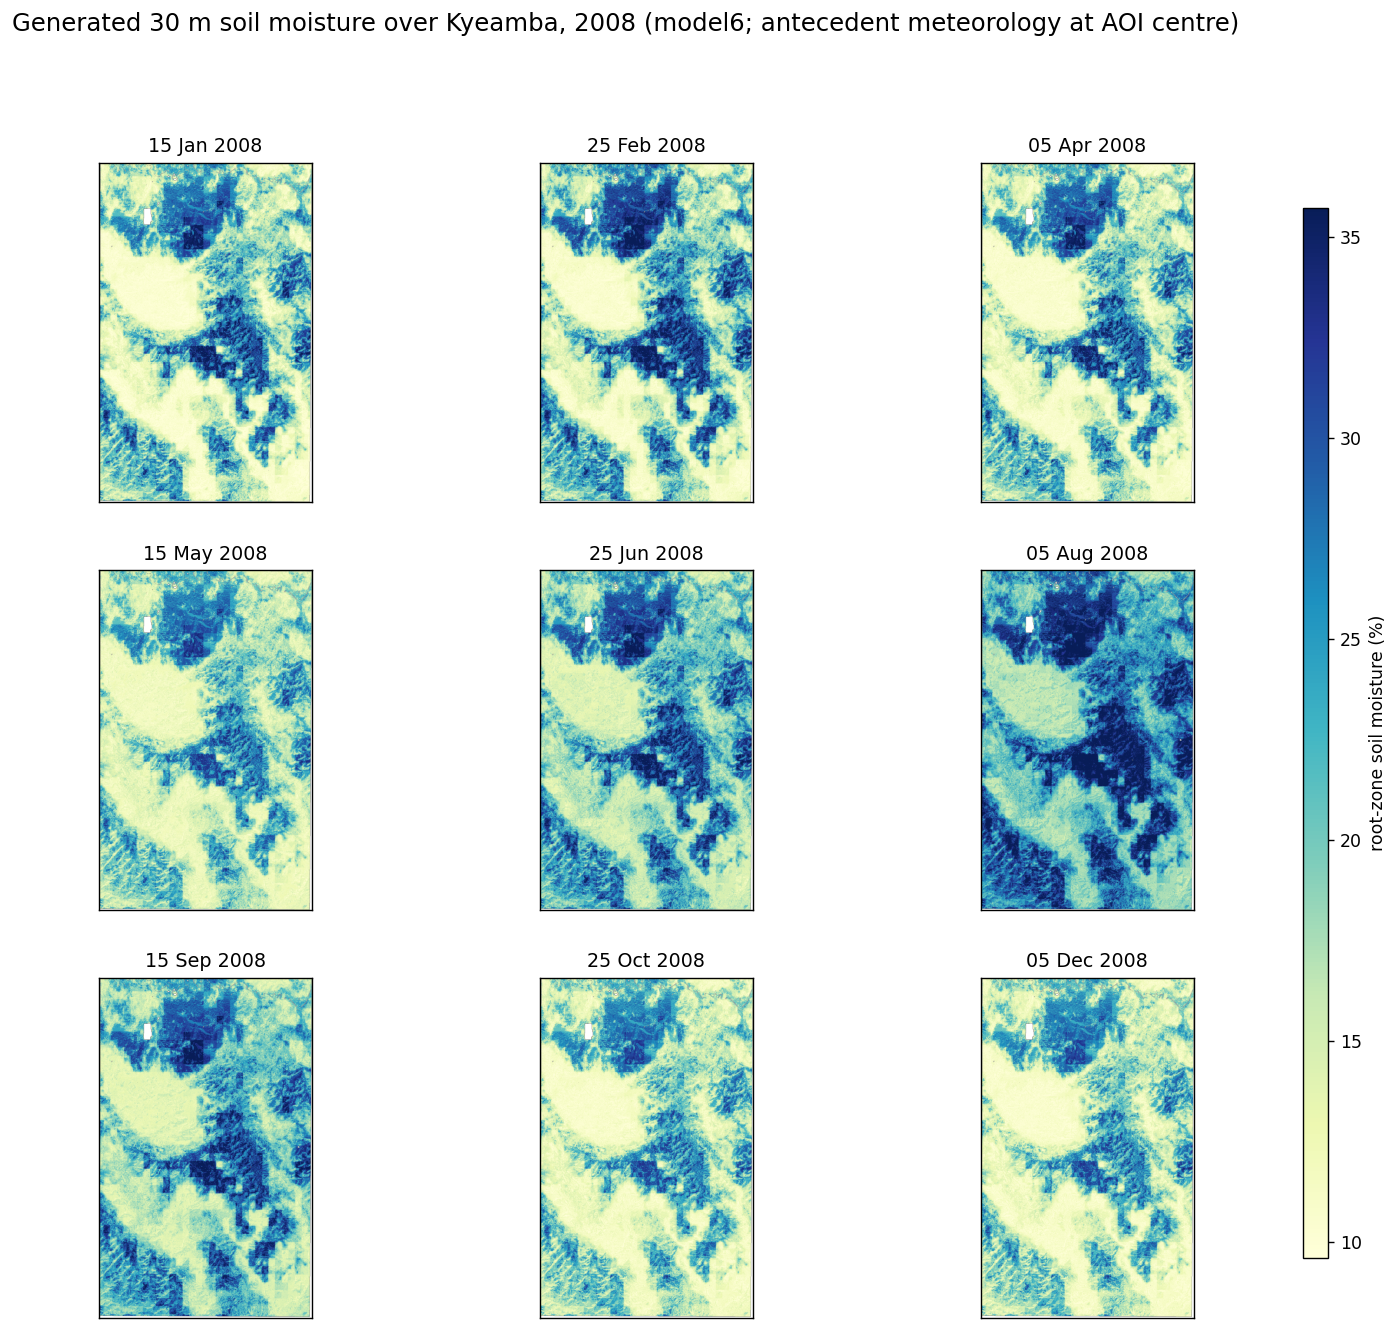
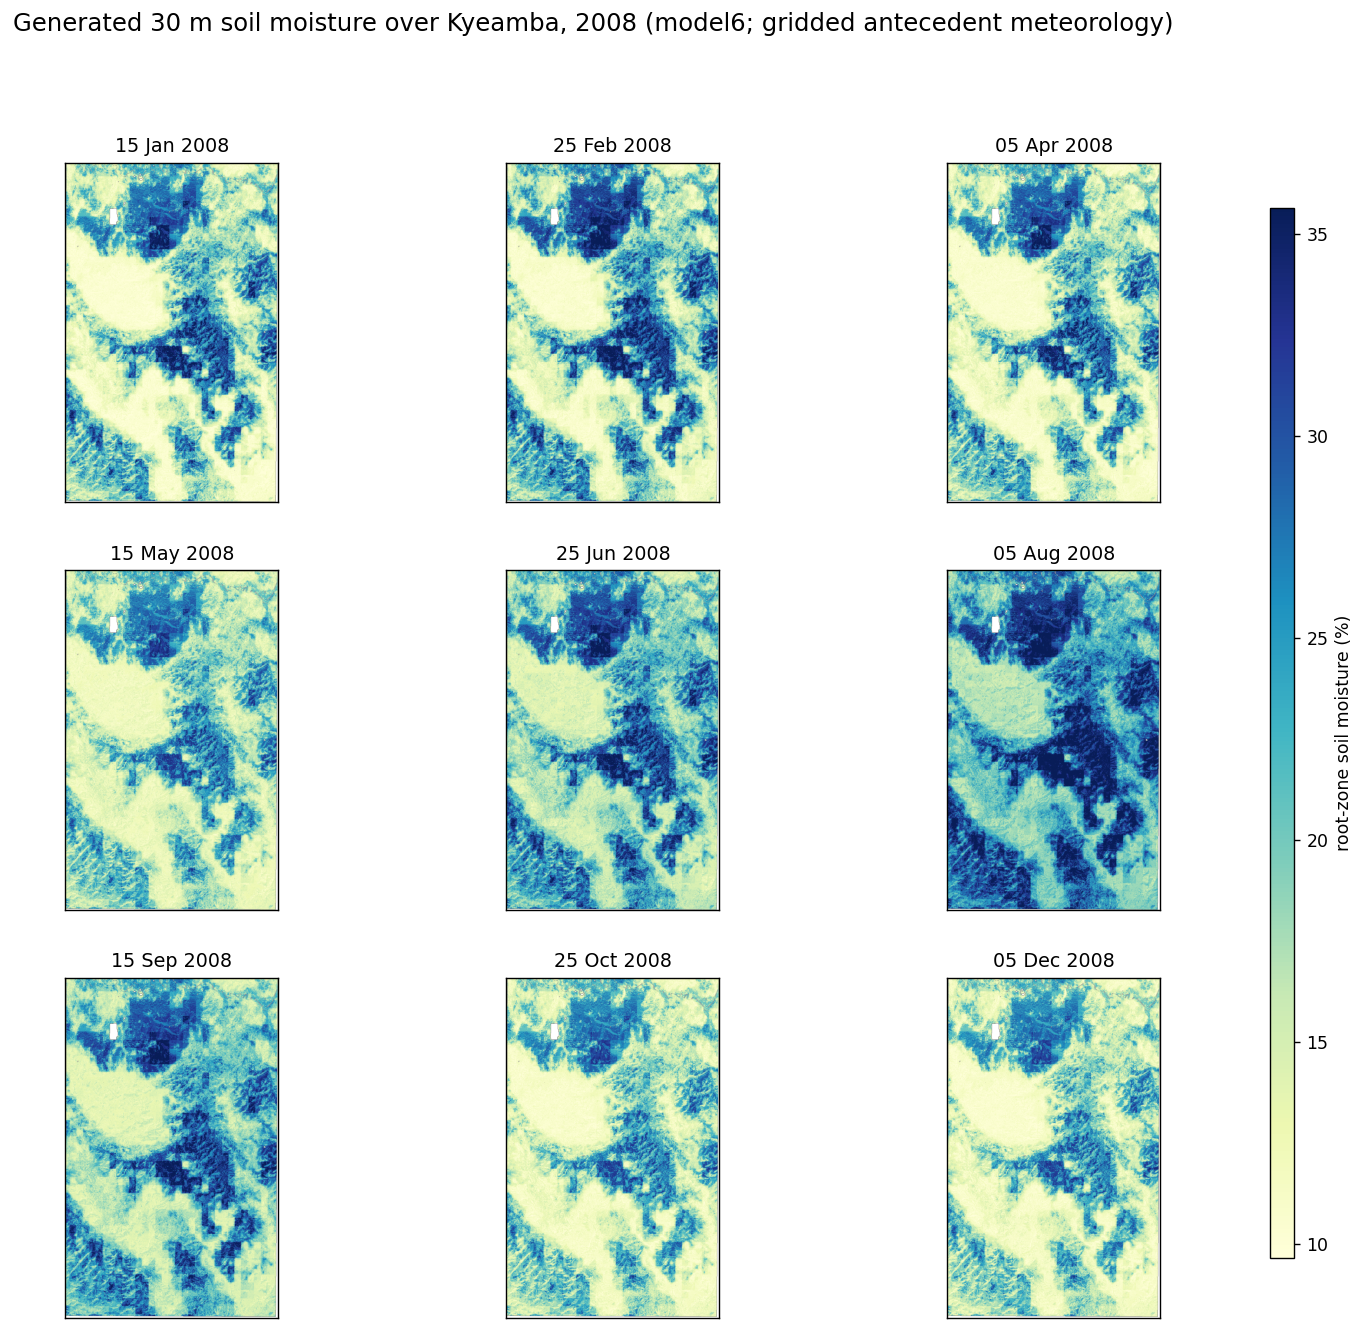
antecedent: gridded SILO for model6 inference
Add antecedent_grid() + antecedent_day_layers(): sample SILO on a 0.05-deg
grid over the AOI (fast point path), compute trailing-window features per
cell, assemble a (time,y,x) cube reprojected onto the 30 m field. Replaces
the AOI-centre approximation in the model6 gallery -- antecedent features now
vary spatially at SILO's ~5 km resolution, the mechanism a national product
needs.

(The open gridded NetCDFs are chunked by time, so byte-range subsetting a
small bbox pulls whole daily continent grids; the point-grid is far cheaper
for an AOI. Noted in the docstring for the eventual national path.)

diff --git a/emt/antecedent.py b/emt/antecedent.py
@@ -70,6 +70,75 @@ def _station_silo(stn: str, lat: float, lon: float,
         return None
 
 
+def antecedent_grid(query, start: date, end: date, step_deg: float = 0.05,
+                    reload: bool = False, verbose: bool = True) -> "object":
+    """Gridded antecedent-meteorology cube over ``query.bbox`` (for inference).
+
+    Samples SILO on a regular ``step_deg`` grid over the AOI using the fast
+    point path (:func:`download_silo`, one cell per point, cached), computes the
+    trailing-window features per cell, and assembles an ``xr.Dataset``
+    (``time, y, x``, EPSG:4326) with ``ANTECEDENT_VARS``. ``step_deg`` defaults
+    to SILO's native 0.05°. Cached to NetCDF.
+
+    (The open gridded NetCDFs are chunked by time, so byte-range subsetting a
+    small bbox would pull whole daily continent grids — the point path is far
+    cheaper for an AOI. A true national run would read the grids locally.)
+
+    Use :func:`antecedent_day_layers` to pull one day's fields for
+    :func:`emt.downscale.downscale`.
+    """
+    import numpy as np
+    import xarray as xr
+    import rioxarray  # noqa: F401  (registers the .rio accessor)
+    from os import makedirs
+    from os.path import exists
+
+    fn = f"{query.tmp_dir}/Environmental/{query.stub}_antecedent_grid.nc"
+    if not reload and exists(fn):
+        if verbose:
+            print(f"  cached: {fn}", flush=True)
+        with xr.open_dataset(fn) as ds:
+            return ds.load()
+
+    minx, miny, maxx, maxy = query.bbox
+    lons = np.round(np.arange(minx, maxx + step_deg / 2, step_deg), 4)
+    lats = np.round(np.arange(miny, maxy + step_deg / 2, step_deg), 4)
+    if verbose:
+        print(f"  SILO point-grid {len(lats)}x{len(lons)} "
+              f"({len(lats)*len(lons)} cells) @ {step_deg}deg", flush=True)
+
+    times = pd.date_range(start, end, freq="D")
+    grids = {v: np.full((len(times), len(lats), len(lons)), np.nan) for v in ANTECEDENT_VARS}
+    for iy, lat in enumerate(lats):
+        for ix, lon in enumerate(lons):
+            silo = _station_silo(f"grid_{lat:.3f}_{lon:.3f}".replace("-", "m").replace(".", "p"),
+                                 float(lat), float(lon), start, end)
+            if silo is None:
+                continue
+            tr = _trailing(silo).set_index("time").reindex(times)
+            for v in ANTECEDENT_VARS:
+                grids[v][:, iy, ix] = tr[v].values
+        if verbose:
+            print(f"    row {iy+1}/{len(lats)}", flush=True)
+
+    ante = xr.Dataset(
+        {v: (("time", "y", "x"), grids[v]) for v in ANTECEDENT_VARS},
+        coords={"time": times, "y": lats, "x": lons},
+    ).rio.write_crs(4326)
+    makedirs(f"{query.tmp_dir}/Environmental", exist_ok=True)
+    ante.to_netcdf(fn)
+    if verbose:
+        print(f"  saved: {fn}", flush=True)
+    return ante
+
+
+def antecedent_day_layers(cube: "object", day) -> dict:
+    """One day's antecedent fields as ``{var: DataArray}`` for ``extra_layers``."""
+    import pandas as _pd
+    sl = cube.sel(time=_pd.Timestamp(day), method="nearest")
+    return {v: sl[v] for v in ANTECEDENT_VARS}
+
+
 def add_antecedent(table: pd.DataFrame, coords: pd.DataFrame,
                    start: date, end: date, verbose: bool = True) -> pd.DataFrame:
     """Attach ``ANTECEDENT_VARS`` to ``table`` (one row per station-day)."""

diff --git a/handout/plot_downscale_gallery_model6.py b/handout/plot_downscale_gallery_model6.py
@@ -1,11 +1,9 @@
 """Gallery of generated 30 m soil moisture from model6 (the recommended model).
 
 model6 adds antecedent-meteorology features. For a downscaled map these are
-needed per pixel, but SILO is a ~5 km grid and the focus AOI is ~35 km across,
-so the trailing-window features are taken at the AOI centre and applied
-uniformly over the field (a small-AOI approximation; a national product would
-use gridded SILO). The spatial structure still comes from terrain, soil and
-SMIPS climatology; the antecedent features set the per-date level.
+supplied per pixel from *gridded* SILO (the open AWS archive, subset to the AOI
+and reprojected onto the 30 m grid), so the trailing-window features vary
+spatially at SILO's ~5 km resolution rather than being a single AOI-centre value.
 
 Run from repo root::  PYTHONPATH=. python handout/plot_downscale_gallery_model6.py
 """
@@ -24,7 +22,7 @@ from emt.queries import query_for_focus_area, query_for_station
 from emt.downscale import downscale
 from emt.smips import smips_climatology
 from emt.slga import soil_covariates, SOIL_VARS
-from emt.antecedent import _trailing, _station_silo, ANTECEDENT_VARS
+from emt.antecedent import antecedent_grid, antecedent_day_layers
 from emt.model6.model import build_estimator, ensure_features, FEATURES, TARGET
 
 REPO = Path(__file__).resolve().parent.parent
@@ -50,19 +48,16 @@ static = {"smips_mean_px": clim["smips_mean_px"], "smips_std_px": clim["smips_st
           **{v: soil[v] for v in SOIL_VARS}}
 stamp("AOI climatology + soil")
 
-# --- antecedent meteorology at the AOI centre (trailing windows, per date) ---
-minx, miny, maxx, maxy = q_clim.bbox
-clat, clon = (miny + maxy) / 2, (minx + maxx) / 2
-silo = _station_silo(f"{AOI}_ctr", clat, clon, date(2006, 1, 1), date(2010, 12, 31))
-ante = _trailing(silo).set_index("time")
-stamp(f"antecedent series at AOI centre ({clat:.2f}, {clon:.2f})")
+# --- gridded antecedent meteorology over the AOI (SILO S3, per pixel) ---
+ante_cube = antecedent_grid(q_clim, date(2006, 1, 1), date(2010, 12, 31))
+stamp(f"gridded antecedent cube {dict(ante_cube.sizes)}")
 
 # --- downscale each date ---
 fields = []
 for d in DATES:
-    ante_d = {v: float(ante.loc[pd.Timestamp(d), v]) for v in ANTECEDENT_VARS}
+    ante_layers = antecedent_day_layers(ante_cube, d)
     ds = downscale(model, query_for_focus_area(AOI, d, d), d, FEATURES,
-                   extra_layers={**static, **ante_d})
+                   extra_layers={**static, **ante_layers})
     fields.append((d, ds["sm_pred"]))
     stamp(f"downscaled {d}  (mean {float(ds['sm_pred'].mean()):.1f}%)")
 
@@ -87,6 +82,6 @@ fig.subplots_adjust(right=0.9)
 cax = fig.add_axes([0.92, 0.15, 0.015, 0.7])
 fig.colorbar(im, cax=cax, label="root-zone soil moisture (%)")
 fig.suptitle(f"Generated 30 m soil moisture over {AOI.title()}, 2008 "
-             f"(model6; antecedent meteorology at AOI centre)", fontsize=14, y=0.98)
+             f"(model6; gridded antecedent meteorology)", fontsize=14, y=0.98)
 fig.savefig(FIG, dpi=125, bbox_inches="tight")
 stamp(f"wrote {FIG.relative_to(REPO)}")

diff --git a/handout/README.md b/handout/README.md
@@ -366,9 +366,10 @@ produces the same field with the antecedent-meteorology correction applied:
 It is visually near-identical to the model4 gallery — as expected, since the
 antecedent features mainly correct the per-station *level* (the metric gain is in
 bias, not spatial texture, which still comes from terrain, soil and SMIPS
-climatology). One caveat for this map: SILO is a ≈5 km grid, so the trailing-window
-features are evaluated at the AOI centre and applied uniformly over the ≈35 km
-field (a small-AOI approximation; a national product would use gridded SILO). This
+climatology). The antecedent features here are supplied per pixel from **gridded
+SILO** ([`antecedent.antecedent_grid`](../emt/antecedent.py) samples the SILO grid
+over the AOI and reprojects it onto the 30 m field), so they vary spatially at
+SILO's ≈5 km resolution — the same mechanism a national product would use. This
 is a qualitative showcase; the quantitative validation follows.
 
 ### Out-of-sample validation
